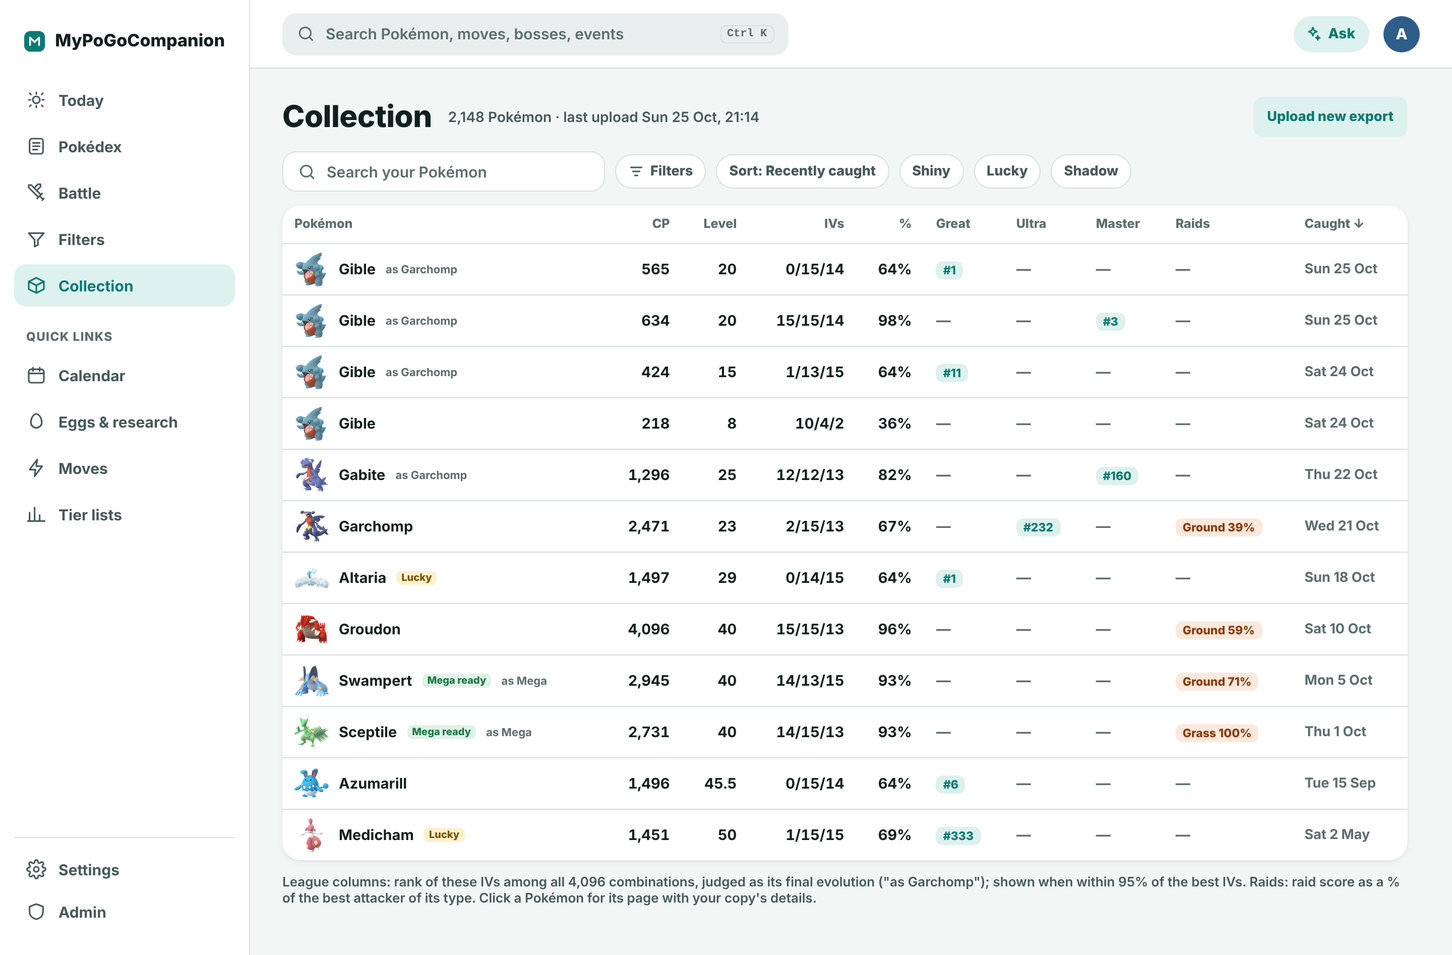
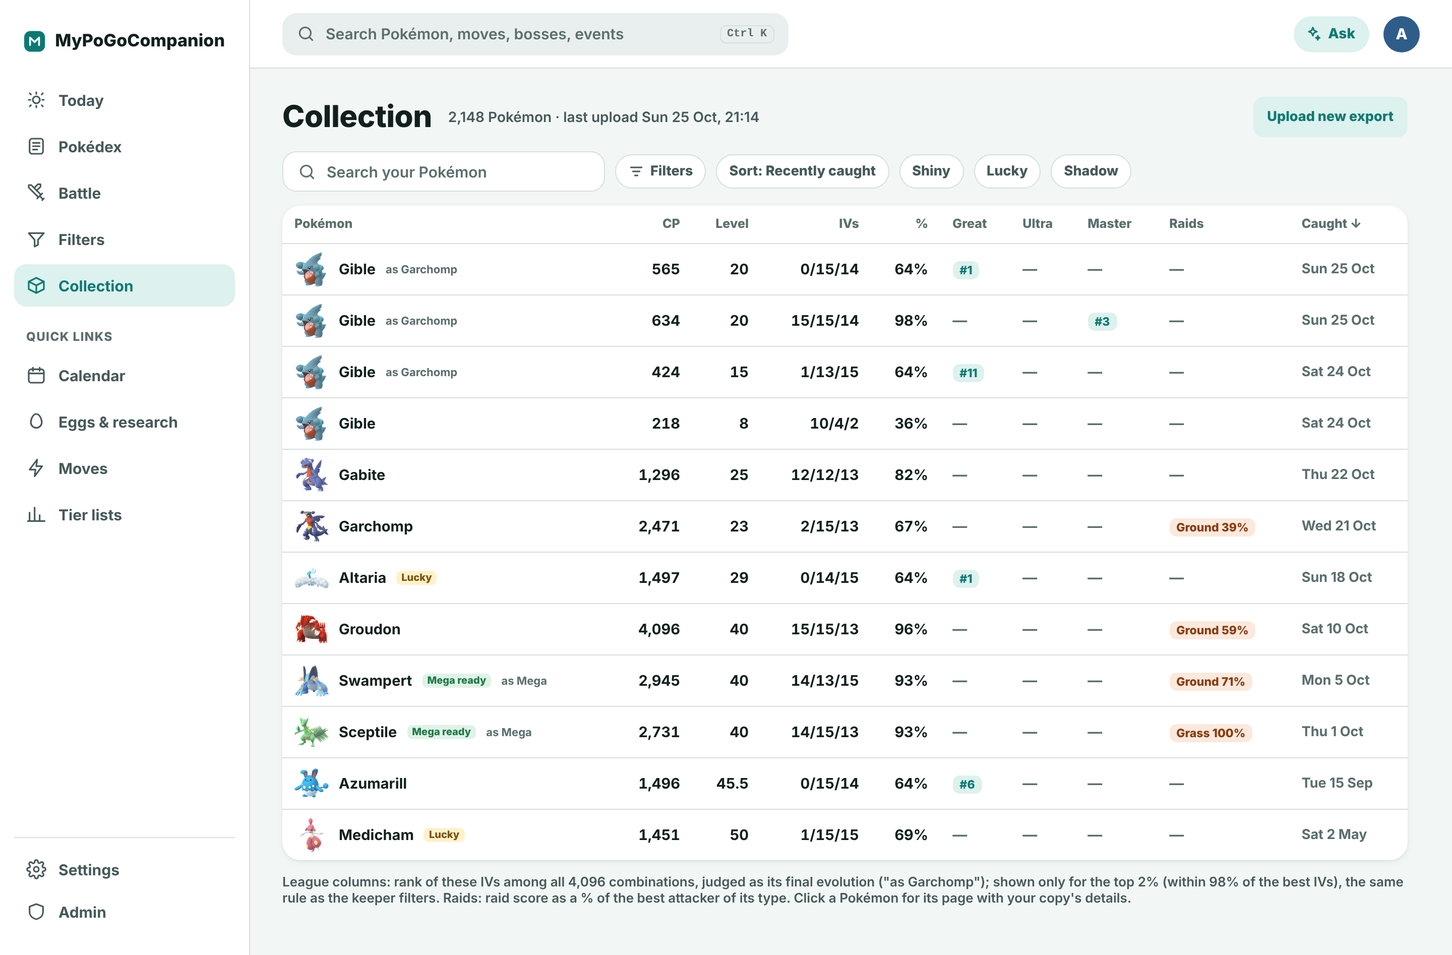
Design: E1 approved; league ranks shown only for the top 2%
Claude-Session: https://claude.ai/code/session_014PLsCiJiJmtsciFeh9tQXY

diff --git a/design/source/screens/E1-desktop.html b/design/source/screens/E1-desktop.html
@@ -6,13 +6,13 @@
 <td class="n">565</td><td class="n">20</td><td class="n">0/15/14</td><td class="n">64%</td><td><span class="val pvp">#1</span></td><td><span class="faint">—</span></td><td><span class="faint">—</span></td><td><span class="faint">—</span></td><td style="color:var(--text-3);font-size:13.5px">Sun 25 Oct</td></tr><tr><td><span style="display:flex;align-items:center;gap:10px"><img class="sprite" src="../sprites/443.png" width="34" height="34" alt="">Gible <span class="as">as Garchomp</span></span></td>
 <td class="n">634</td><td class="n">20</td><td class="n">15/15/14</td><td class="n">98%</td><td><span class="faint">—</span></td><td><span class="faint">—</span></td><td><span class="val pvp">#3</span></td><td><span class="faint">—</span></td><td style="color:var(--text-3);font-size:13.5px">Sun 25 Oct</td></tr><tr><td><span style="display:flex;align-items:center;gap:10px"><img class="sprite" src="../sprites/443.png" width="34" height="34" alt="">Gible <span class="as">as Garchomp</span></span></td>
 <td class="n">424</td><td class="n">15</td><td class="n">1/13/15</td><td class="n">64%</td><td><span class="val pvp">#11</span></td><td><span class="faint">—</span></td><td><span class="faint">—</span></td><td><span class="faint">—</span></td><td style="color:var(--text-3);font-size:13.5px">Sat 24 Oct</td></tr><tr><td><span style="display:flex;align-items:center;gap:10px"><img class="sprite" src="../sprites/443.png" width="34" height="34" alt="">Gible</span></td>
-<td class="n">218</td><td class="n">8</td><td class="n">10/4/2</td><td class="n">36%</td><td><span class="faint">—</span></td><td><span class="faint">—</span></td><td><span class="faint">—</span></td><td><span class="faint">—</span></td><td style="color:var(--text-3);font-size:13.5px">Sat 24 Oct</td></tr><tr><td><span style="display:flex;align-items:center;gap:10px"><img class="sprite" src="../sprites/444.png" width="34" height="34" alt="">Gabite <span class="as">as Garchomp</span></span></td>
-<td class="n">1,296</td><td class="n">25</td><td class="n">12/12/13</td><td class="n">82%</td><td><span class="faint">—</span></td><td><span class="faint">—</span></td><td><span class="val pvp">#160</span></td><td><span class="faint">—</span></td><td style="color:var(--text-3);font-size:13.5px">Thu 22 Oct</td></tr><tr><td><span style="display:flex;align-items:center;gap:10px"><img class="sprite" src="../sprites/445.png" width="34" height="34" alt="">Garchomp</span></td>
-<td class="n">2,471</td><td class="n">23</td><td class="n">2/15/13</td><td class="n">67%</td><td><span class="faint">—</span></td><td><span class="val pvp">#232</span></td><td><span class="faint">—</span></td><td><span class="val raid">Ground 39%</span></td><td style="color:var(--text-3);font-size:13.5px">Wed 21 Oct</td></tr><tr><td><span style="display:flex;align-items:center;gap:10px"><img class="sprite" src="../sprites/334.png" width="34" height="34" alt="">Altaria<span class="mk lucky">Lucky</span></span></td>
+<td class="n">218</td><td class="n">8</td><td class="n">10/4/2</td><td class="n">36%</td><td><span class="faint">—</span></td><td><span class="faint">—</span></td><td><span class="faint">—</span></td><td><span class="faint">—</span></td><td style="color:var(--text-3);font-size:13.5px">Sat 24 Oct</td></tr><tr><td><span style="display:flex;align-items:center;gap:10px"><img class="sprite" src="../sprites/444.png" width="34" height="34" alt="">Gabite</span></td>
+<td class="n">1,296</td><td class="n">25</td><td class="n">12/12/13</td><td class="n">82%</td><td><span class="faint">—</span></td><td><span class="faint">—</span></td><td><span class="faint">—</span></td><td><span class="faint">—</span></td><td style="color:var(--text-3);font-size:13.5px">Thu 22 Oct</td></tr><tr><td><span style="display:flex;align-items:center;gap:10px"><img class="sprite" src="../sprites/445.png" width="34" height="34" alt="">Garchomp</span></td>
+<td class="n">2,471</td><td class="n">23</td><td class="n">2/15/13</td><td class="n">67%</td><td><span class="faint">—</span></td><td><span class="faint">—</span></td><td><span class="faint">—</span></td><td><span class="val raid">Ground 39%</span></td><td style="color:var(--text-3);font-size:13.5px">Wed 21 Oct</td></tr><tr><td><span style="display:flex;align-items:center;gap:10px"><img class="sprite" src="../sprites/334.png" width="34" height="34" alt="">Altaria<span class="mk lucky">Lucky</span></span></td>
 <td class="n">1,497</td><td class="n">29</td><td class="n">0/14/15</td><td class="n">64%</td><td><span class="val pvp">#1</span></td><td><span class="faint">—</span></td><td><span class="faint">—</span></td><td><span class="faint">—</span></td><td style="color:var(--text-3);font-size:13.5px">Sun 18 Oct</td></tr><tr><td><span style="display:flex;align-items:center;gap:10px"><img class="sprite" src="../sprites/383.png" width="34" height="34" alt="">Groudon</span></td>
 <td class="n">4,096</td><td class="n">40</td><td class="n">15/15/13</td><td class="n">96%</td><td><span class="faint">—</span></td><td><span class="faint">—</span></td><td><span class="faint">—</span></td><td><span class="val raid">Ground 59%</span></td><td style="color:var(--text-3);font-size:13.5px">Sat 10 Oct</td></tr><tr><td><span style="display:flex;align-items:center;gap:10px"><img class="sprite" src="../sprites/260.png" width="34" height="34" alt="">Swampert<span class="mk ready">Mega ready</span> <span class="as">as Mega</span></span></td>
 <td class="n">2,945</td><td class="n">40</td><td class="n">14/13/15</td><td class="n">93%</td><td><span class="faint">—</span></td><td><span class="faint">—</span></td><td><span class="faint">—</span></td><td><span class="val raid">Ground 71%</span></td><td style="color:var(--text-3);font-size:13.5px">Mon 5 Oct</td></tr><tr><td><span style="display:flex;align-items:center;gap:10px"><img class="sprite" src="../sprites/254.png" width="34" height="34" alt="">Sceptile<span class="mk ready">Mega ready</span> <span class="as">as Mega</span></span></td>
 <td class="n">2,731</td><td class="n">40</td><td class="n">14/15/13</td><td class="n">93%</td><td><span class="faint">—</span></td><td><span class="faint">—</span></td><td><span class="faint">—</span></td><td><span class="val raid">Grass 100%</span></td><td style="color:var(--text-3);font-size:13.5px">Thu 1 Oct</td></tr><tr><td><span style="display:flex;align-items:center;gap:10px"><img class="sprite" src="../sprites/184.png" width="34" height="34" alt="">Azumarill</span></td>
 <td class="n">1,496</td><td class="n">45.5</td><td class="n">0/15/14</td><td class="n">64%</td><td><span class="val pvp">#6</span></td><td><span class="faint">—</span></td><td><span class="faint">—</span></td><td><span class="faint">—</span></td><td style="color:var(--text-3);font-size:13.5px">Tue 15 Sep</td></tr><tr><td><span style="display:flex;align-items:center;gap:10px"><img class="sprite" src="../sprites/308.png" width="34" height="34" alt="">Medicham<span class="mk lucky">Lucky</span></span></td>
-<td class="n">1,451</td><td class="n">50</td><td class="n">1/15/15</td><td class="n">69%</td><td><span class="val pvp">#333</span></td><td><span class="faint">—</span></td><td><span class="faint">—</span></td><td><span class="faint">—</span></td><td style="color:var(--text-3);font-size:13.5px">Sat 2 May</td></tr></table></div>
-<p class="sub" style="margin:0">League columns: rank of these IVs among all 4,096 combinations, judged as its final evolution ("as Garchomp"); shown when within 95% of the best IVs. Raids: raid score as a % of the best attacker of its type. Click a Pokémon for its page with your copy's details.</p></div></div></div><script src="../chrome.js"></script><script>document.body.innerHTML=document.body.innerHTML.replaceAll("SEARCHICON",icon("search",19));</script></body></html>
+<td class="n">1,451</td><td class="n">50</td><td class="n">1/15/15</td><td class="n">69%</td><td><span class="faint">—</span></td><td><span class="faint">—</span></td><td><span class="faint">—</span></td><td><span class="faint">—</span></td><td style="color:var(--text-3);font-size:13.5px">Sat 2 May</td></tr></table></div>
+<p class="sub" style="margin:0">League columns: rank of these IVs among all 4,096 combinations, judged as its final evolution ("as Garchomp"); shown only for the top 2% (within 98% of the best IVs), the same rule as the keeper filters. Raids: raid score as a % of the best attacker of its type. Click a Pokémon for its page with your copy's details.</p></div></div></div><script src="../chrome.js"></script><script>document.body.innerHTML=document.body.innerHTML.replaceAll("SEARCHICON",icon("search",19));</script></body></html>

diff --git a/design/source/screens/E1-phone.html b/design/source/screens/E1-phone.html
@@ -1,16 +1,16 @@
 <!doctype html><html lang="en"><head><meta charset="utf-8"><title>E1 My collection</title><link rel="stylesheet" href="../base.css"><link rel="stylesheet" href="_b1.css"><link rel="stylesheet" href="_e1.css"></head><body><div class="stage"><div class="device"><div class="screen"><div data-statusbar></div><header class="apphead"><div class="titlerow"><h1 class="bigtitle">Collection</h1><span data-ask></span><div class="avatar">A</div></div>
 <div class="searchbox">SEARCHICON Search your Pokémon</div></header>
-<div class="scroll"><div style="padding:12px 10px 20px;display:flex;flex-direction:column;gap:10px"><div class="sum"><div style="display:flex;flex-direction:column;gap:2px"><b>2,148 Pokémon</b><span class="sub">Last upload Sun 25 Oct, 21:14</span></div><button class="up">Upload new</button></div><div class="toolbar"><span class="tbtn"><svg width="16" height="16" viewBox="0 0 24 24" fill="none" stroke="currentColor" stroke-width="2.2" stroke-linecap="round"><path d="M4 6h16M7 12h10M10 18h4"/></svg>Filters</span><span class="tbtn">Sort: Recently caught</span><span class="tbtn">Shiny</span><span class="tbtn">Lucky</span><span class="tbtn">Shadow</span></div><div class="sub" style="margin:0 4px;line-height:1.4"><span class="val pvp">GL #1</span> = rank of its IVs in that league (shown when within 95% of the best) · <span class="val raid">Ground 59%</span> = raid score vs the best of its type</div><div class="card" style="overflow:hidden"><div class="cr"><img class="sprite" src="../sprites/443.png" width="46" height="46" alt=""><div class="nm"><b>Gible</b>
+<div class="scroll"><div style="padding:12px 10px 20px;display:flex;flex-direction:column;gap:10px"><div class="sum"><div style="display:flex;flex-direction:column;gap:2px"><b>2,148 Pokémon</b><span class="sub">Last upload Sun 25 Oct, 21:14</span></div><button class="up">Upload new</button></div><div class="toolbar"><span class="tbtn"><svg width="16" height="16" viewBox="0 0 24 24" fill="none" stroke="currentColor" stroke-width="2.2" stroke-linecap="round"><path d="M4 6h16M7 12h10M10 18h4"/></svg>Filters</span><span class="tbtn">Sort: Recently caught</span><span class="tbtn">Shiny</span><span class="tbtn">Lucky</span><span class="tbtn">Shadow</span></div><div class="sub" style="margin:0 4px;line-height:1.4"><span class="val pvp">GL #1</span> = rank of its IVs in that league (only the top 2%: within 98% of the best) · <span class="val raid">Ground 59%</span> = raid score vs the best of its type</div><div class="card" style="overflow:hidden"><div class="cr"><img class="sprite" src="../sprites/443.png" width="46" height="46" alt=""><div class="nm"><b>Gible</b>
 <span class="st">CP 565 · L20 · 0/15/14 (64%)</span></div><div class="vals"><span class="val pvp">GL #1</span><span class="as">as Garchomp</span></div></div><div class="cr"><img class="sprite" src="../sprites/443.png" width="46" height="46" alt=""><div class="nm"><b>Gible</b>
 <span class="st">CP 634 · L20 · 15/15/14 (98%)</span></div><div class="vals"><span class="val pvp">ML #3</span><span class="as">as Garchomp</span></div></div><div class="cr"><img class="sprite" src="../sprites/443.png" width="46" height="46" alt=""><div class="nm"><b>Gible</b>
 <span class="st">CP 424 · L15 · 1/13/15 (64%)</span></div><div class="vals"><span class="val pvp">GL #11</span><span class="as">as Garchomp</span></div></div><div class="cr"><img class="sprite" src="../sprites/443.png" width="46" height="46" alt=""><div class="nm"><b>Gible</b>
 <span class="st">CP 218 · L8 · 10/4/2 (36%)</span></div><div class="vals"><span class="val none">No league or raid use</span></div></div><div class="cr"><img class="sprite" src="../sprites/444.png" width="46" height="46" alt=""><div class="nm"><b>Gabite</b>
-<span class="st">CP 1,296 · L25 · 12/12/13 (82%)</span></div><div class="vals"><span class="val pvp">ML #160</span><span class="as">as Garchomp</span></div></div><div class="cr"><img class="sprite" src="../sprites/445.png" width="46" height="46" alt=""><div class="nm"><b>Garchomp</b>
-<span class="st">CP 2,471 · L23 · 2/15/13 (67%)</span></div><div class="vals"><span class="val pvp">UL #232</span><span class="val raid">Ground 39%</span></div></div><div class="cr"><img class="sprite" src="../sprites/334.png" width="46" height="46" alt=""><div class="nm"><b>Altaria<span class="mk lucky">Lucky</span></b>
+<span class="st">CP 1,296 · L25 · 12/12/13 (82%)</span></div><div class="vals"><span class="val none">No league or raid use</span></div></div><div class="cr"><img class="sprite" src="../sprites/445.png" width="46" height="46" alt=""><div class="nm"><b>Garchomp</b>
+<span class="st">CP 2,471 · L23 · 2/15/13 (67%)</span></div><div class="vals"><span class="val raid">Ground 39%</span></div></div><div class="cr"><img class="sprite" src="../sprites/334.png" width="46" height="46" alt=""><div class="nm"><b>Altaria<span class="mk lucky">Lucky</span></b>
 <span class="st">CP 1,497 · L29 · 0/14/15 (64%)</span></div><div class="vals"><span class="val pvp">GL #1</span></div></div><div class="cr"><img class="sprite" src="../sprites/383.png" width="46" height="46" alt=""><div class="nm"><b>Groudon</b>
 <span class="st">CP 4,096 · L40 · 15/15/13 (96%)</span></div><div class="vals"><span class="val raid">Ground 59%</span></div></div><div class="cr"><img class="sprite" src="../sprites/260.png" width="46" height="46" alt=""><div class="nm"><b>Swampert<span class="mk ready">Mega ready</span></b>
 <span class="st">CP 2,945 · L40 · 14/13/15 (93%)</span></div><div class="vals"><span class="val raid">Ground 71%</span><span class="as">as Mega</span></div></div><div class="cr"><img class="sprite" src="../sprites/254.png" width="46" height="46" alt=""><div class="nm"><b>Sceptile<span class="mk ready">Mega ready</span></b>
 <span class="st">CP 2,731 · L40 · 14/15/13 (93%)</span></div><div class="vals"><span class="val raid">Grass 100%</span><span class="as">as Mega</span></div></div><div class="cr"><img class="sprite" src="../sprites/184.png" width="46" height="46" alt=""><div class="nm"><b>Azumarill</b>
 <span class="st">CP 1,496 · L45.5 · 0/15/14 (64%)</span></div><div class="vals"><span class="val pvp">GL #6</span></div></div><div class="cr"><img class="sprite" src="../sprites/308.png" width="46" height="46" alt=""><div class="nm"><b>Medicham<span class="mk lucky">Lucky</span></b>
-<span class="st">CP 1,451 · L50 · 1/15/15 (69%)</span></div><div class="vals"><span class="val pvp">GL #333</span></div></div></div></div></div>
+<span class="st">CP 1,451 · L50 · 1/15/15 (69%)</span></div><div class="vals"><span class="val none">No league or raid use</span></div></div></div></div></div>
 <div data-tabbar="collection"></div></div></div></div><script src="../chrome.js"></script><script>document.body.innerHTML=document.body.innerHTML.replaceAll("SEARCHICON",icon("search",19));</script></body></html>

diff --git a/design/source/screens/gen_e1.py b/design/source/screens/gen_e1.py
@@ -7,14 +7,14 @@ ROWS = [("443", "Gible", "", "20", "0/15/14", "565", "#1", "—", "—", "", "as
         ("443", "Gible", "", "20", "15/15/14", "634", "—", "—", "#3", "", "as Garchomp", "Sun 25 Oct"),
         ("443", "Gible", "", "15", "1/13/15", "424", "#11", "—", "—", "", "as Garchomp", "Sat 24 Oct"),
         ("443", "Gible", "", "8", "10/4/2", "218", "—", "—", "—", "", "", "Sat 24 Oct"),
-        ("444", "Gabite", "", "25", "12/12/13", "1,296", "—", "—", "#160", "", "as Garchomp", "Thu 22 Oct"),
-        ("445", "Garchomp", "", "23", "2/15/13", "2,471", "—", "#232", "—", "Ground 39%", "", "Wed 21 Oct"),
+        ("444", "Gabite", "", "25", "12/12/13", "1,296", "—", "—", "—", "", "", "Thu 22 Oct"),
+        ("445", "Garchomp", "", "23", "2/15/13", "2,471", "—", "—", "—", "Ground 39%", "", "Wed 21 Oct"),
         ("334", "Altaria", "lucky", "29", "0/14/15", "1,497", "#1", "—", "—", "", "", "Sun 18 Oct"),
         ("383", "Groudon", "", "40", "15/15/13", "4,096", "—", "—", "—", "Ground 59%", "", "Sat 10 Oct"),
         ("260", "Swampert", "ready", "40", "14/13/15", "2,945", "—", "—", "—", "Ground 71%", "as Mega", "Mon 5 Oct"),
         ("254", "Sceptile", "ready", "40", "14/15/13", "2,731", "—", "—", "—", "Grass 100%", "as Mega", "Thu 1 Oct"),
         ("184", "Azumarill", "", "45.5", "0/15/14", "1,496", "#6", "—", "—", "", "", "Tue 15 Sep"),
-        ("308", "Medicham", "lucky", "50", "1/15/15", "1,451", "#333", "—", "—", "", "", "Sat 2 May")]
+        ("308", "Medicham", "lucky", "50", "1/15/15", "1,451", "—", "—", "—", "", "", "Sat 2 May")]
 pct = lambda iv: round(sum(int(x) for x in iv.split("/")) / 45 * 100)
 MK = {"lucky": '<span class="mk lucky">Lucky</span>', "ready": '<span class="mk ready">Mega ready</span>', "": ""}
 def vals(r):
@@ -40,7 +40,7 @@ script = '<script src="../chrome.js"></script><script>document.body.innerHTML=do
 SUM = '<div class="sum"><div style="display:flex;flex-direction:column;gap:2px"><b>2,148 Pokémon</b><span class="sub">Last upload Sun 25 Oct, 21:14</span></div><button class="up">Upload new</button></div>'
 FIL = '<svg width="16" height="16" viewBox="0 0 24 24" fill="none" stroke="currentColor" stroke-width="2.2" stroke-linecap="round"><path d="M4 6h16M7 12h10M10 18h4"/></svg>'
 TOOLS = f'<div class="toolbar"><span class="tbtn">{FIL}Filters</span><span class="tbtn">Sort: Recently caught</span><span class="tbtn">Shiny</span><span class="tbtn">Lucky</span><span class="tbtn">Shadow</span></div>'
-LEG = '<div class="sub" style="margin:0 4px;line-height:1.4"><span class="val pvp">GL #1</span> = rank of its IVs in that league (shown when within 95% of the best) · <span class="val raid">Ground 59%</span> = raid score vs the best of its type</div>'
+LEG = '<div class="sub" style="margin:0 4px;line-height:1.4"><span class="val pvp">GL #1</span> = rank of its IVs in that league (only the top 2%: within 98% of the best) · <span class="val raid">Ground 59%</span> = raid score vs the best of its type</div>'
 phone = head + f'''<div class="stage"><div class="device"><div class="screen"><div data-statusbar></div>{phead}
 <div class="scroll"><div style="padding:12px 10px 20px;display:flex;flex-direction:column;gap:10px">{SUM}{TOOLS}{LEG}<div class="card" style="overflow:hidden">{''.join(prow(r) for r in ROWS)}</div></div></div>
 <div data-tabbar="collection"></div></div></div></div>{script}</body></html>'''
@@ -56,5 +56,5 @@ desk = head + f'''<div class="desktop"><div data-sidebar="collection"></div><div
 <div style="display:flex;align-items:center;gap:16px"><h1 class="bigtitle" style="flex:none">Collection</h1><span class="sub" style="font-size:14px">2,148 Pokémon · last upload Sun 25 Oct, 21:14</span><span style="flex:1"></span><button class="up" style="height:40px">Upload new export</button></div>
 <div style="display:flex;gap:10px;align-items:center"><div class="searchbox" style="width:320px;height:40px;background:var(--surface);border:1px solid var(--line)">SEARCHICON Search your Pokémon</div>{TOOLS[21:-6]}<span style="flex:1"></span></div>
 <div class="card" style="overflow:hidden"><table class="col"><tr><th>Pokémon</th><th class="n">CP</th><th class="n">Level</th><th class="n">IVs</th><th class="n">%</th><th>Great</th><th>Ultra</th><th>Master</th><th>Raids</th><th>Caught ↓</th></tr>{''.join(drow(r) for r in ROWS)}</table></div>
-<p class="sub" style="margin:0">League columns: rank of these IVs among all 4,096 combinations, judged as its final evolution ("as Garchomp"); shown when within 95% of the best IVs. Raids: raid score as a % of the best attacker of its type. Click a Pokémon for its page with your copy's details.</p></div></div></div>{script}</body></html>'''
+<p class="sub" style="margin:0">League columns: rank of these IVs among all 4,096 combinations, judged as its final evolution ("as Garchomp"); shown only for the top 2% (within 98% of the best IVs), the same rule as the keeper filters. Raids: raid score as a % of the best attacker of its type. Click a Pokémon for its page with your copy's details.</p></div></div></div>{script}</body></html>'''
 (HERE / 'E1-phone.html').write_text(phone); (HERE / 'E1e-phone.html').write_text(phonee); (HERE / 'E1-desktop.html').write_text(desk)

diff --git a/design/source/CONVENTIONS.md b/design/source/CONVENTIONS.md
@@ -50,7 +50,7 @@ All screens show the same moment and the same trainer, so they tell one consiste
 - **Pokédex (B1):** 1,025 rows, one per species; version markers on each row; stats and max CP of the base form (level 50, 15/15/15). Filters look at every version. Example: Fire + Attack ≥ 230 + released → 24 Pokémon (incl. Charizard via Mega X/Y, Hisuian Arcanine, Hisuian Typhlosion, Mega Houndoom, Primal Groudon, Mega Camerupt).
 - **Eggs (A4):** 10 km pool (8): Gible 635 · Deino 606 · Larvitar 594 · Beldum 558 · Goomy 557 · Jangmo-o 553 · Dreepy 438 · Frigibax 712 (100% CP at L20). Other distances listed but not opened in the sample.
 - **Field Research (A4):** Win 3 raids → Gible (100% CP 477, L15) · Catch 10 Ghost-type Pokémon → Litwick (431) · Make 3 Great Throws → Snorunt (380) · Power up Pokémon 5 times → Bulbasaur (477).
-- **Collection:** 2,148 Pokémon; last import Sun 25 Oct 21:14 (63 new, 40 gone, 12 changed). Includes a Garchomp 2/15/13 L23 (UL rank 232, 97.9%, CP 2,471); the Gible family: Gible 15/15/14 (→ Garchomp ML rank 3, 99.5%), Gible 0/15/14 (→ GL rank 1, CP 1,495), Gible 1/13/15 (→ GL rank 11, 99.4%), Gible 10/4/2 (no league above 95%), Gabite 12/12/13 (→ ML rank 160, 96.6%), a Medicham 1/15/15 L50 (GL IV rank 333, 96.8%), Shadow Zekrom, Zeraora, Mega-ready Sceptile.
+- **Collection:** 2,148 Pokémon; last import Sun 25 Oct 21:14 (63 new, 40 gone, 12 changed). Includes a Garchomp 2/15/13 L23 (UL rank 232, 97.9%, CP 2,471); the Gible family: Gible 15/15/14 (→ Garchomp ML rank 3, 99.5%), Gible 0/15/14 (→ GL rank 1, CP 1,495), Gible 1/13/15 (→ GL rank 11, 99.4%), Gible 10/4/2 (no league above 95%), Gabite 12/12/13 (→ ML rank 160, 96.6%: below the 98% keeper line, so no chip), a Medicham 1/15/15 L50 (GL IV rank 333, 96.8%), Shadow Zekrom, Zeraora, Mega-ready Sceptile.
 - **Kyogre counters** (from today's raid model, same numbers on every screen): Mega Sceptile 57.3 (Mega slot) · Shadow Zekrom 44.6 · Zeraora 41.5 · Shadow Raikou 41.2 · Shadow Electivire 39.8 · Shadow Chesnaught 39.3 · Zarude 39.2 · Regieleki 39.2 · Xurkitree 39.1.
 - **Garchomp** (B2 example): Atk 261 · Def 193 · Sta 239 · max CP 3,962 / 4,479 / 4,532 (L40/50/51) · 100% CP 1,698 (L15) / 2,264 (L20) / 2,830 (L25) / 3,396 (L30) / 3,679 (L35) · ML #31 (Shadow #26) · Ground raids #12 (Shadow #5, Mega #2) · GL best IVs 0/15/14.
 - **Kyogre boss page** (C2): moves Waterfall + Origin Pulse / Surf / Blizzard / Thunder; lowest catch CP 2,260; catch-screen example CP 2,320 → 13/12/15, 13/13/14 (89%), 15/13/11, 15/14/10 (87%). Each counter shows damage/s and how long it lasts (Mega Sceptile 25.4/s, ~26 s) and "% of best". Your counters: Sceptile (Mega ready) L40 14/15/13 57.2 · Shadow Zekrom L35 13/15/14 42.2 · Zeraora L40 15/15/14 (Spark) 40.1 · Magnezone L40 31.5 · Torterra L40 30.8 · Venusaur L35 30.5; 38 of yours can help.

diff --git a/CLAUDE.md b/CLAUDE.md
@@ -161,6 +161,7 @@ Earlier product work (feature list F01–F25 with priorities, UI choices, first 
 | 2026-10-28 | **D2 Filter builder approved** (condition rows joined by AND, values inside a condition OR; add-a-condition sheet with 10 groups and search; live string, hand-editable, checked by the game-search simulator, length shown, auto-split; Save and Copy). |
 | 2026-10-28 | **D3 Saved filters approved** (list with Copy and ⋯ menu: open, rename, duplicate, delete; save sheet with name; stored with the account, sign-in needed). |
 | 2026-10-28 | New Good to have item **9.10 "Your Pokémon" edits** (power up, evolve, change moves, transfer, marked "Edited in app"). The **Poke Genie upload stays the absolute source of truth** for now; a better way to keep the collection updated is to be planned later (open decision). Totals: 56 MVP · 76 Good to have · 28 Future. |
+| 2026-10-28 | **E1 My collection approved** (summary + Upload new, filters/sort, league chips and raid % chip per Pokémon, first-time Poke Genie upload state). League ranks show **only for the top 2% (within 98% of the best IVs)**, the same rule as the keeper filters. |
 
 ## Open decisions
 
